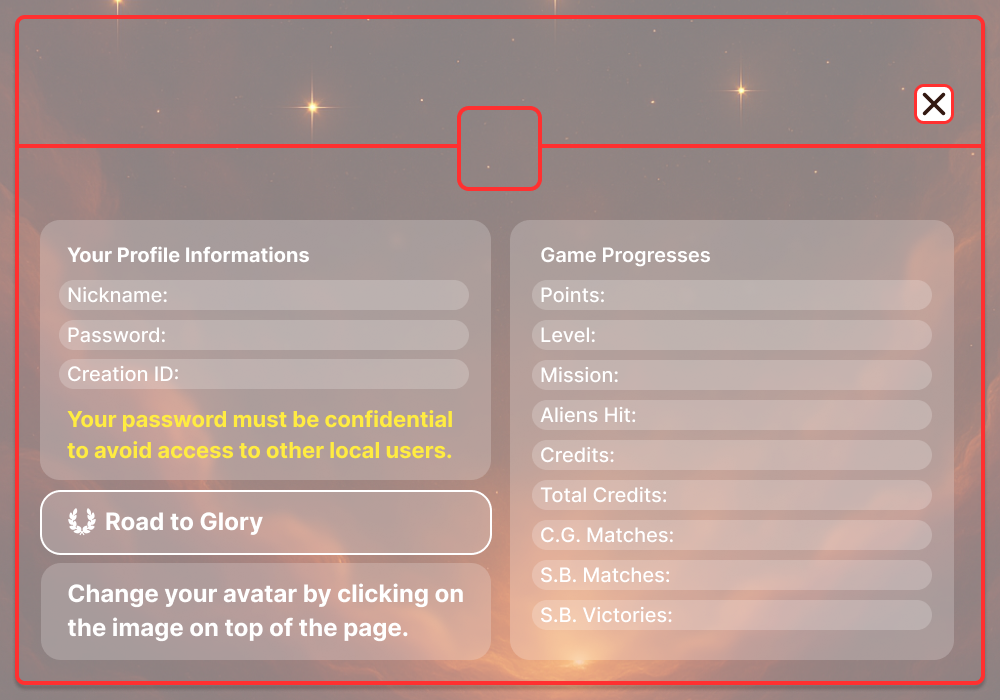
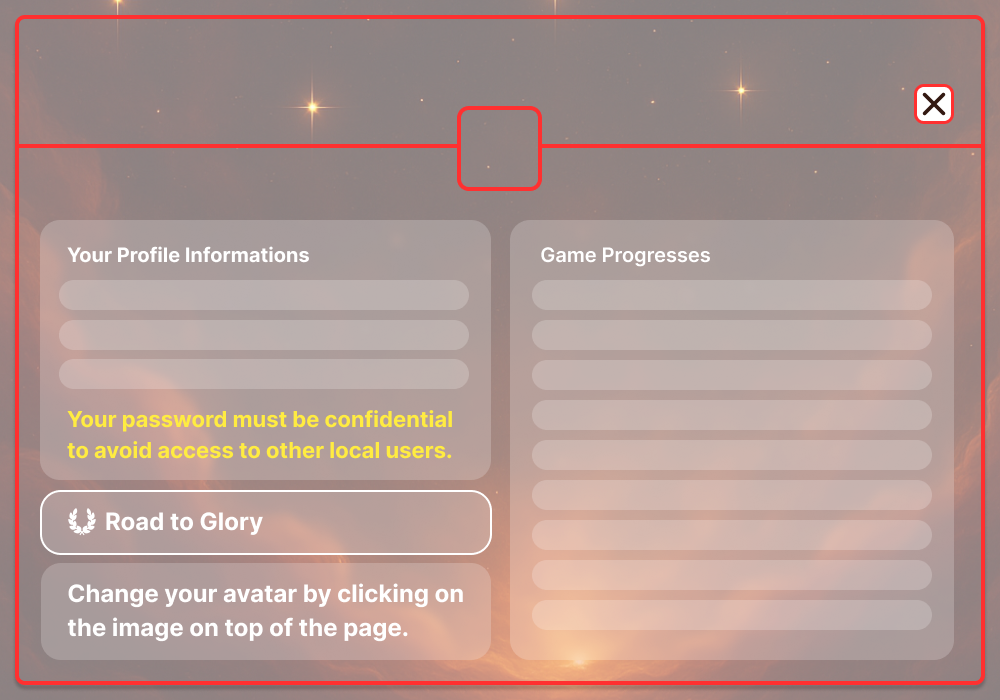
lavoro 11/06/2025 - luca

diff --git a/core/src/codes/sorgente/Lobby/UIManager.java b/core/src/codes/sorgente/Lobby/UIManager.java
@@ -750,20 +750,20 @@ public class UIManager implements ResourceLoader {
             case 6:
                 // testi //
                 // SCRITTE A SX
-                fontMediumWhite20.draw(screen, AuthAlgorithms.nickname, 172, 413); // nickname
-                fontMediumWhite20.draw(screen, AuthAlgorithms.password, 172, 373); // password
-                fontMediumWhite20.draw(screen, AuthAlgorithms.date, 185, 334); // data registrazione
+                fontMediumWhite20.draw(screen, "Nickname: " + AuthAlgorithms.nickname, 67, 413); // nickname
+                fontMediumWhite20.draw(screen, "Password: " + AuthAlgorithms.password, 67, 373); // password
+                fontMediumWhite20.draw(screen, "Creation ID: " + AuthAlgorithms.date, 67, 334); // data registrazione
 
                 // SCRITTE A DX
-                fontMediumWhite20.draw(screen, formatter.format((int)DataUserManager.getProgress("points")), 615, 412); // punti
-                fontMediumWhite20.draw(screen, formatter.format((int)DataUserManager.getProgress("level")), 605, 372); // livello
-                fontMediumWhite20.draw(screen, formatter.format((int)DataUserManager.getProgress("num_mission")), 625, 332); // numero missione
-                fontMediumWhite20.draw(screen, formatter.format((int)DataUserManager.getProgress("num_aliens_hit")), 645, 292); // alieni colpiti
-                fontMediumWhite20.draw(screen, formatter.format((int)DataUserManager.getProgress("credits")), 625, 252); // crediti
-                fontMediumWhite20.draw(screen, formatter.format((int)DataUserManager.getProgress("total_credits")), 680, 212); // crediti totali
-                fontMediumWhite20.draw(screen, formatter.format((int)DataUserManager.getProgress("matches_CG")), 680, 172); // partite classic game
-                fontMediumWhite20.draw(screen, formatter.format((int)DataUserManager.getProgress("matches_SB")), 680, 132); // partite space battle
-                fontMediumWhite20.draw(screen, formatter.format((int)DataUserManager.getProgress("won_SB")), 680, 92); // vittorie space battle
+                fontMediumWhite20.draw(screen, "Points: " + formatter.format((int)DataUserManager.getProgress("points")), 540, 412); // punti
+                fontMediumWhite20.draw(screen, "Level: " + formatter.format((int)DataUserManager.getProgress("level")), 540, 372); // livello
+                fontMediumWhite20.draw(screen, "Mission: " + formatter.format((int)DataUserManager.getProgress("num_mission")), 540, 332); // numero missione
+                fontMediumWhite20.draw(screen, "Aliens Hit: " + formatter.format((int)DataUserManager.getProgress("num_aliens_hit")), 540, 292); // alieni colpiti
+                fontMediumWhite20.draw(screen, "Credits: " + formatter.format((int)DataUserManager.getProgress("credits")), 540, 252); // crediti
+                fontMediumWhite20.draw(screen, "All Time Credits: " + formatter.format((int)DataUserManager.getProgress("total_credits")), 540, 212); // crediti totali
+                fontMediumWhite20.draw(screen, "C.G. Matches: " + formatter.format((int)DataUserManager.getProgress("matches_CG")), 540, 172); // partite classic game
+                fontMediumWhite20.draw(screen, "S.B. Matches: " + formatter.format((int)DataUserManager.getProgress("matches_SB")), 540, 132); // partite space battle
+                fontMediumWhite20.draw(screen, "S.B. Victories: " + formatter.format((int)DataUserManager.getProgress("won_SB")), 540, 92); // vittorie space battle
 
                 // immagini //
                 screen.draw(mapAvatarsImgs.get((int)DataUserManager.getProgress("avatar")), 461, 513); // avatar

diff --git a/core/src/codes/sorgente/Lobby/InputManager.java b/core/src/codes/sorgente/Lobby/InputManager.java
@@ -176,8 +176,6 @@ public class InputManager implements InputProcessor {
         esempio: l'utente NON può avviare il 'classic game' da una pagina in sovra impressione o esterna che riempe lo schermo
         */
 
-        System.out.println(screenX + " " + screenY);
-
         // **************************************** //
         // CAMBIO PAGINE LOBBY + CLICK NELLE PAGINE //
         // **************************************** //
@@ -500,12 +498,13 @@ public class InputManager implements InputProcessor {
                     }
                 }
             }
-
+            System.out.println(screenX + " " + screenY);
             // X sp => chiusura pagina navicelle/info di gioco
-            if ((page==4 || page==12)  && (screenX >= 908 && screenX <= 948) && (((screenY+(maxScrollY - scrollY)) >= 66 && (screenY+(maxScrollY - scrollY)) <= 106)
-                || ((screenY+(maxScrollY2 - scrollY2)) >= 66 && (screenY+(maxScrollY2 - scrollY2)) <= 106))) {
+            if ((page==4 || page==12)  && (screenX >= 908 && screenX <= 948) && (screenY >= 67 && screenY <= 107)) {
                 page = previousPage;
             }
+
+            //((screenY+(maxScrollY2 - scrollY2)) >= 67 && (screenY+(maxScrollY2 - scrollY2)) <= 107))
 
             // X glory => chiusura pagina glory
             if ((secondScreen && open20) && (screenX>=670 && screenX<=710) && (screenY>=165 && screenY<=205)) {
@@ -513,7 +512,7 @@ public class InputManager implements InputProcessor {
             }
 
             // X others => chiusura pagina info profilo-difficoltà-carte; avatar
-            if (!open20 && (screenX >= 905 && screenX <= 945) && (screenY >= 83 && screenY <= 123)) {
+            if (!open20 && !((page==4 || page==12)) && (screenX >= 905 && screenX <= 945) && (screenY >= 83 && screenY <= 123)) {
                 if (page == 7) page = 6; // evita di tornare alla lobby dalla pagina degli avatar
                 else page = previousPage;
             }
